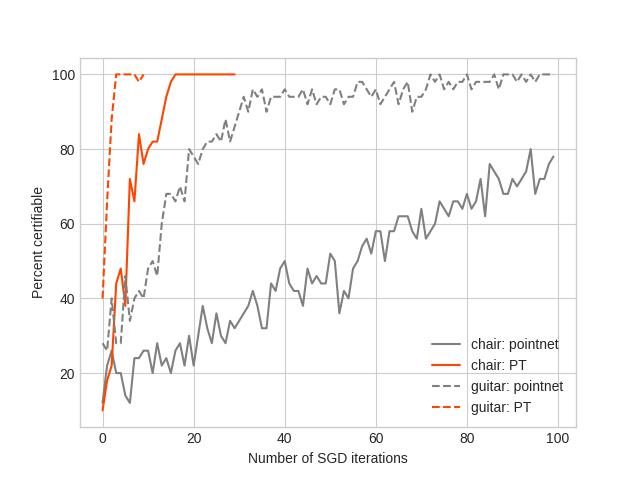
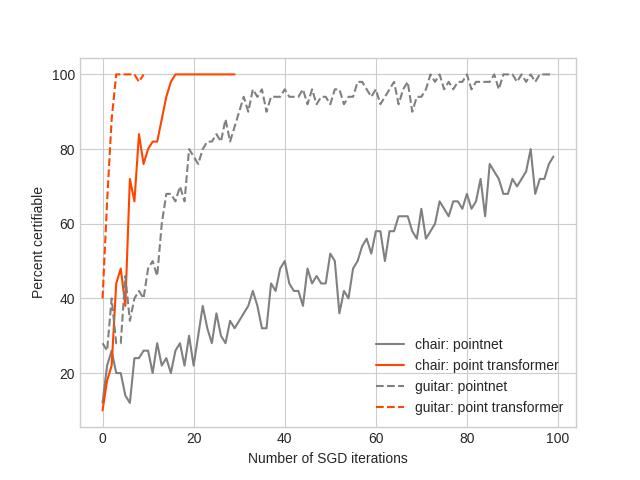
Experiment 4: evaluation code

Changed region(s): [[0.5938, 0.6875, 0.875, 0.875], [0.5938, 0.6875, 0.625, 0.7188]]

diff --git a/learning_objects/expt_full_self_supervised_correction/evaluation.py b/learning_objects/expt_full_self_supervised_correction/evaluation.py
@@ -24,17 +24,17 @@ def evaluate(eval_loader, model, hyper_param, certification=True, device=None, c
 
     with torch.no_grad():
 
-        pc_err = 0.0
-        kp_err = 0.0
-        R_err = 0.0
-        t_err = 0.0
+        # pc_err = 0.0
+        # kp_err = 0.0
+        # R_err = 0.0
+        # t_err = 0.0
         adds_err = 0.0
         auc = 0.0
 
-        pc_err_cert = 0.0
-        kp_err_cert = 0.0
-        R_err_cert = 0.0
-        t_err_cert = 0.0
+        # pc_err_cert = 0.0
+        # kp_err_cert = 0.0
+        # R_err_cert = 0.0
+        # t_err_cert = 0.0
         adds_err_cert = 0.0
         auc_cert = 0.0
 
@@ -58,7 +58,7 @@ def evaluate(eval_loader, model, hyper_param, certification=True, device=None, c
             input_point_cloud = input_point_cloud.to(device)
             R_target = R_target.to(device)
             t_target = t_target.to(device)
-            keypoints_target = R_target @ model_keypoints + t_target
+            # keypoints_target = R_target @ model_keypoints + t_target
             batch_size = input_point_cloud.shape[0]
 
             # Make predictions for this batch
@@ -77,9 +77,9 @@ def evaluate(eval_loader, model, hyper_param, certification=True, device=None, c
             # error of all objects
             # error of certified objects
 
-            pc_err_, kp_err_, R_err_, t_err_ = \
-                evaluation_error(input=(input_point_cloud, keypoints_target, R_target, t_target),
-                                 output=(predicted_point_cloud, predicted_keypoints, R_predicted, t_predicted))
+            # pc_err_, kp_err_, R_err_, t_err_ = \
+            #     evaluation_error(input=(input_point_cloud, keypoints_target, R_target, t_target),
+            #                      output=(predicted_point_cloud, predicted_keypoints, R_predicted, t_predicted))
 
             ground_truth_point_cloud = R_target @ model.cad_models + t_target
             # adds_err_, auc_ = add_s_error(predicted_point_cloud, ground_truth_point_cloud,
@@ -98,10 +98,10 @@ def evaluate(eval_loader, model, hyper_param, certification=True, device=None, c
 
 
             # error for all objects
-            pc_err += pc_err_.sum()
-            kp_err += kp_err_.sum()
-            R_err += R_err_.sum()
-            t_err += t_err_.sum()
+            # pc_err += pc_err_.sum()
+            # kp_err += kp_err_.sum()
+            # R_err += R_err_.sum()
+            # t_err += t_err_.sum()
             adds_err += adds_err_.sum()
             auc += auc_
 
@@ -110,32 +110,32 @@ def evaluate(eval_loader, model, hyper_param, certification=True, device=None, c
                 num_cert += certi.sum()
 
                 # error for certifiable objects
-                pc_err_cert += (pc_err_ * certi).sum()
-                kp_err_cert += (kp_err_ * certi).sum()
-                R_err_cert += (R_err_ * certi).sum()
-                t_err_cert += (t_err_ * certi).sum()
+                # pc_err_cert += (pc_err_ * certi).sum()
+                # kp_err_cert += (kp_err_ * certi).sum()
+                # R_err_cert += (R_err_ * certi).sum()
+                # t_err_cert += (t_err_ * certi).sum()
                 adds_err_cert += (adds_err_ * certi).sum()
 
                 _, auc_cert_ = add_s_error(predicted_point_cloud, ground_truth_point_cloud,
                                           threshold=hyper_param['adds_auc_threshold'], certi=certi)
                 auc_cert += auc_cert_
 
-            del input_point_cloud, keypoints_target, R_target, t_target, \
+            del input_point_cloud, R_target, t_target, \
                 predicted_point_cloud, predicted_keypoints, R_predicted, t_predicted
 
         # avg_vloss = running_vloss / (i + 1)
-        ave_pc_err = pc_err / ((i + 1)*batch_size)
-        ave_kp_err = kp_err / ((i + 1)*batch_size)
-        ave_R_err = R_err / ((i + 1)*batch_size)
-        ave_t_err = t_err / ((i + 1)*batch_size)
+        # ave_pc_err = pc_err / ((i + 1)*batch_size)
+        # ave_kp_err = kp_err / ((i + 1)*batch_size)
+        # ave_R_err = R_err / ((i + 1)*batch_size)
+        # ave_t_err = t_err / ((i + 1)*batch_size)
         ave_adds_err = 100 * adds_err / ((i + 1) * batch_size)
         ave_auc = 100 * auc / (i + 1)
 
         if certification:
-            ave_pc_err_cert = pc_err_cert / num_cert
-            ave_kp_err_cert = kp_err_cert / num_cert
-            ave_R_err_cert = R_err_cert / num_cert
-            ave_t_err_cert = t_err_cert / num_cert
+            # ave_pc_err_cert = pc_err_cert / num_cert
+            # ave_kp_err_cert = kp_err_cert / num_cert
+            # ave_R_err_cert = R_err_cert / num_cert
+            # ave_t_err_cert = t_err_cert / num_cert
             ave_adds_err_cert = 100 * adds_err_cert / num_cert
             ave_auc_cert = 100 * auc_cert / (i + 1)
 
@@ -143,25 +143,25 @@ def evaluate(eval_loader, model, hyper_param, certification=True, device=None, c
 
         print(">>>>>>>>>>>>>>>> EVALUATING MODEL >>>>>>>>>>>>>>>>>>>>")
         print("Evaluating performance across all objects:")
-        print("pc error: ", ave_pc_err.item())
-        print("kp error: ", ave_kp_err.item())
-        print("R error: ", ave_R_err.item())
-        print("t error: ", ave_t_err.item())
+        # print("pc error: ", ave_pc_err.item())
+        # print("kp error: ", ave_kp_err.item())
+        # print("R error: ", ave_R_err.item())
+        # print("t error: ", ave_t_err.item())
         print("ADD-S (", int(hyper_param["adds_threshold"]*100), "%): ", ave_adds_err.item())
         print("ADD-S AUC (", int(hyper_param["adds_auc_threshold"]*100), "%): ", ave_auc.item())
-        print("GT-certifiable: ")
+        # print("GT-certifiable: ")
 
         print("Evaluating certification: ")
         print("epsilon parameter: ", hyper_param['epsilon'])
         print("% certifiable: ", fra_cert.item())
         print("Evaluating performance for certifiable objects: ")
-        print("pc error: ", ave_pc_err_cert.item())
-        print("kp error: ", ave_kp_err_cert.item())
-        print("R error: ", ave_R_err_cert.item())
-        print("t error: ", ave_t_err_cert.item())
+        # print("pc error: ", ave_pc_err_cert.item())
+        # print("kp error: ", ave_kp_err_cert.item())
+        # print("R error: ", ave_R_err_cert.item())
+        # print("t error: ", ave_t_err_cert.item())
         print("ADD-S (", int(hyper_param["adds_threshold"]*100), "%): ", ave_adds_err_cert.item())
         print("ADD-S AUC (", int(hyper_param["adds_auc_threshold"]*100), "%): ", ave_auc_cert.item())
-        print("GT-certifiable: ")
+        # print("GT-certifiable: ")
 
     return None
 

diff --git a/learning_objects/expt_full_self_supervised_correction/full_self_supervised_training.py b/learning_objects/expt_full_self_supervised_correction/full_self_supervised_training.py
@@ -376,6 +376,7 @@ def visual_test(test_loader, model, hyper_param, correction_flag=False, device=N
 
 
 def visualize_detector(hyper_param, detector_type, class_id, model_id,
+                       dataset_class_id, dataset_model_id,
                        evaluate_models=True, models_to_analyze='both',
                        visualize_without_corrector=True, visualize_with_corrector=True,
                        visualize=False, device=None):
@@ -418,17 +419,25 @@ def visualize_detector(hyper_param, detector_type, class_id, model_id,
     #                                  num_of_points_to_sample=hyper_param['num_of_points_to_sample'],
     #                                  dataset_len=eval_dataset_len,
     #                                  rotate_about_z=True)
-    eval_dataset = MixedFixedDepthPC(class_id=class_id,
-                                     model_id=model_id,
+    eval_dataset = MixedFixedDepthPC(class_id=dataset_class_id,
+                                     model_id=dataset_model_id,
                                      n=hyper_param['num_of_points_selfsupervised'],
                                      num_of_points_to_sample=hyper_param['num_of_points_to_sample'],
-                                     base_dataset_folder=hyper_param['val_dataset_folder'])
+                                     base_dataset_folder=hyper_param['eval_dataset_folder'],
+                                     mixed_data=False)
     eval_loader = torch.utils.data.DataLoader(eval_dataset, batch_size=eval_batch_size, shuffle=True)
 
 
     # model
-    cad_models = eval_dataset._get_cad_models().to(torch.float).to(device=device)
-    model_keypoints = eval_dataset._get_model_keypoints().to(torch.float).to(device=device)
+    temp_dataset = MixedFixedDepthPC(class_id=class_id,
+                                     model_id=model_id,
+                                     n=hyper_param['num_of_points_selfsupervised'],
+                                     num_of_points_to_sample=hyper_param['num_of_points_to_sample'],
+                                     base_dataset_folder=hyper_param['eval_dataset_folder'],
+                                     mixed_data=False)
+    cad_models = temp_dataset._get_cad_models().to(torch.float).to(device=device)
+    model_keypoints = temp_dataset._get_model_keypoints().to(torch.float).to(device=device)
+    del temp_dataset
 
     if pre_:
         model_before = ProposedModel(class_name=class_name, model_keypoints=model_keypoints, cad_models=cad_models,
@@ -539,7 +548,7 @@ def train_kp_detectors(detector_type, model_class_ids, only_categories=None):
                            hyper_param=hyper_param)
 
 
-def visualize_kp_detectors(detector_type, model_class_ids, only_categories=None,
+def visualize_kp_detectors(detector_type, model_class_ids, dataset_name, only_categories=None,
                            evaluate_models=True,
                            models_to_analyze='both',
                            visualize=True,
@@ -548,6 +557,11 @@ def visualize_kp_detectors(detector_type, model_class_ids, only_categories=None,
 
     if not visualize:
         visualize_with_corrector, visualize_without_corrector = False, False
+
+    dataset_class_id = CLASS_ID[dataset_name]
+    dataset_model_id = model_class_ids[dataset_name]
+    # print("dataset_class_id: ", dataset_class_id)
+    # print("dataset_model_id: ", dataset_model_id)
 
     for key, value in model_class_ids.items():
         if key in only_categories:
@@ -568,9 +582,13 @@ def visualize_kp_detectors(detector_type, model_class_ids, only_categories=None,
 
             print(">>"*40)
             print("Analyzing Trained Model for Object: ", key, "; Model ID:", str(model_id))
+            print("On dataset of: ", dataset_name)
+            # print("class id: ", class_id)
             visualize_detector(detector_type=detector_type,
                                class_id=class_id,
                                model_id=model_id,
+                               dataset_class_id=dataset_class_id,
+                               dataset_model_id=dataset_model_id,
                                hyper_param=hyper_param,
                                evaluate_models=evaluate_models,
                                models_to_analyze=models_to_analyze,

diff --git a/learning_objects/expt_full_self_supervised_correction/evaluate_trained_model.py b/learning_objects/expt_full_self_supervised_correction/evaluate_trained_model.py
@@ -13,8 +13,8 @@ from learning_objects.expt_full_self_supervised_correction.full_self_supervised_
 if __name__ == "__main__":
     """
     usage: 
-    >> python evaluate_trained_model.py "point_transformer" "chair" "pre"
-    >> python evaluate_trained_model.py "pointnet" "chair" "post"
+    >> python evaluate_trained_model.py "point_transformer" "chair" "pre" "table"
+    >> python evaluate_trained_model.py "pointnet" "chair" "post" "chair"
 
     """
 
@@ -22,12 +22,15 @@ if __name__ == "__main__":
     parser.add_argument("detector_type", help="specify the detector type.", type=str)
     parser.add_argument("class_name", help="specify the ShapeNet class name.", type=str)
     parser.add_argument("models_to_analyze", help="pre/post, for pre-trained or post-training models.", type=str)
+    parser.add_argument("dataset_name", help="specify the ShapeNet class name, on whom the model will be tested",
+                        type=str)
 
     args = parser.parse_args()
 
     detector_type = args.detector_type
     class_name = args.class_name
     models_to_analyze = args.models_to_analyze
+    dataset_name = args.dataset_name
     # print("KP detector type: ", args.detector_type)
     # print("CAD Model class: ", args.class_name)
     only_categories = [class_name]
@@ -38,6 +41,7 @@ if __name__ == "__main__":
     visualize_kp_detectors(detector_type=detector_type,
                            model_class_ids=model_class_ids,
                            only_categories=only_categories,
+                           dataset_name=dataset_name,
                            visualize=False, evaluate_models=True,
                            models_to_analyze=models_to_analyze)
 

diff --git a/learning_objects/expt_self_supervised_correction/cert_plot.py b/learning_objects/expt_self_supervised_correction/cert_plot.py
@@ -102,7 +102,7 @@ def plot_cert_at_train(model_class_ids, only_categories):
                 fig = plt.figure()
                 iter_range = torch.arange(len_max)
                 plt.plot(iter_range, plot_dict["pointnet"], '-', label=key + ': pointnet', color='grey')
-                plt.plot(iter_range, plot_dict["point_transformer"], '-', label=key + ': PT', color='orangered')
+                plt.plot(iter_range, plot_dict["point_transformer"], '-', label=key + ': point transformer', color='orangered')
                 plt.xlabel('Number of SGD iterations')
                 plt.ylabel('Percent certifiable')
                 if only_one:
@@ -114,7 +114,7 @@ def plot_cert_at_train(model_class_ids, only_categories):
                 # fig = plt.figure()
                 # iter_range = torch.arange(len_max)
                 plt.plot(iter_range, plot_dict["pointnet"], '--', label=key + ': pointnet', color='grey')
-                plt.plot(iter_range, plot_dict["point_transformer"], '--', label=key + ': PT', color='orangered')
+                plt.plot(iter_range, plot_dict["point_transformer"], '--', label=key + ': point transformer', color='orangered')
                 # plt.xlabel('number of SGD iterations')
                 # plt.ylabel('% certifiable')
                 plt.legend(loc="lower right")

diff --git a/learning_objects/datasets/keypointnet.py b/learning_objects/datasets/keypointnet.py
@@ -1224,7 +1224,7 @@ class MixedFixedDepthPC(torch.utils.data.Dataset):
         """
 
     def __init__(self, class_id, model_id, base_dataset_folder, n=1000, radius_multiple=torch.tensor([1.2, 3.0]),
-                 num_of_points_to_sample=10000, dataset_len=1, rotate_about_z=False):
+                 num_of_points_to_sample=10000, dataset_len=1, rotate_about_z=False, mixed_data=True):
         super().__init__()
         """
         class_id        : str   : class id of a ShapeNetCore object
@@ -1241,7 +1241,10 @@ class MixedFixedDepthPC(torch.utils.data.Dataset):
         self.class_name = CLASS_NAME[self.class_id]
         self.model_id = model_id
 
-        self.dataset_folder = self.base_dataset_folder + 'mixed/'
+        if mixed_data:
+            self.dataset_folder = self.base_dataset_folder + 'mixed/'
+        else:
+            self.dataset_folder = self.base_dataset_folder + self.class_name + '/' + self.model_id + '/'
 
         self.n = n
         self.radius_multiple = radius_multiple
